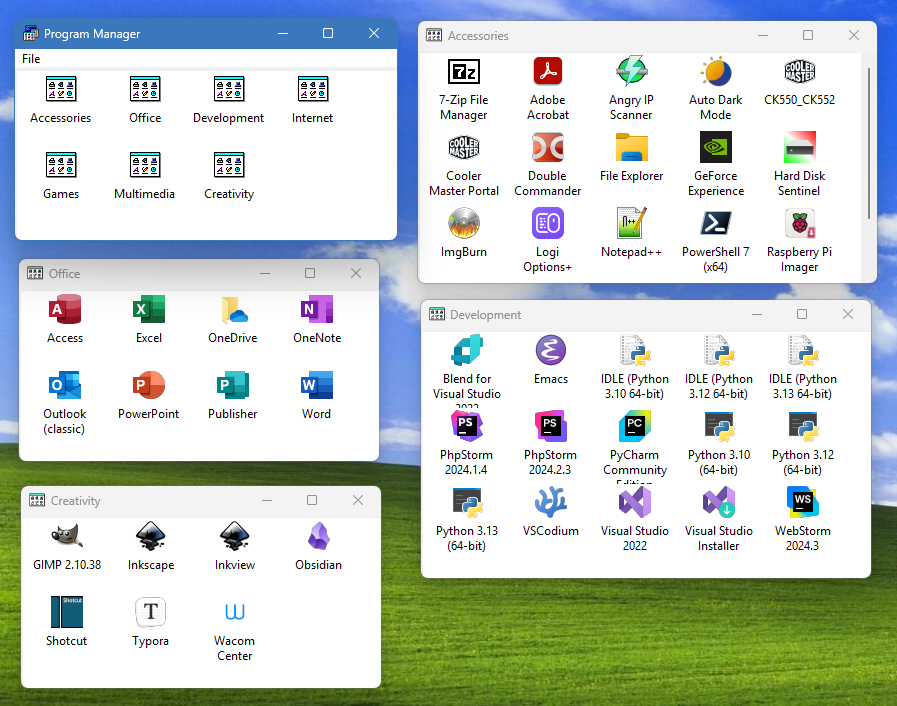
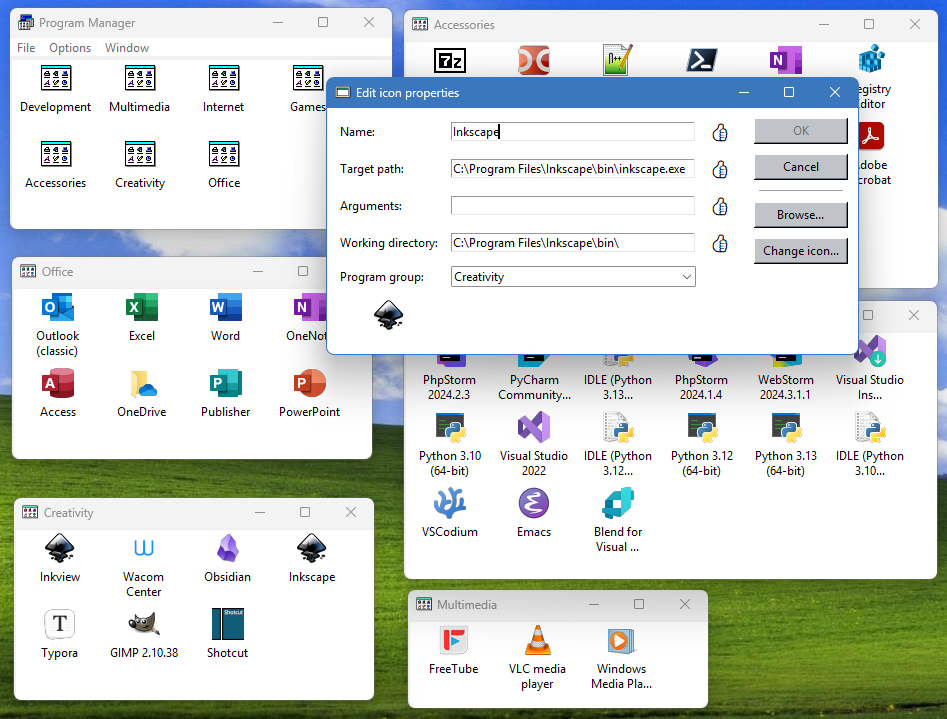
doc: update readme and screenshot

diff --git a/README.md b/README.md
@@ -15,12 +15,12 @@ It is written in Python v3.13 using TkInter to be as lightweight as possible.
 * Groups are prepopulated from the OS' own app launcher to save time on icon creation based on rules.
 * App icons can be present in multiple group at the same time.
 * Custom icon creation.
+* Editing icons.
 * Custom group creation.
 
 ## Features on the roadmap
 
-* Editing icons.
-* Context sensitive menus.
+* Context sensitive menus (in progress).
 * Changing group membership of icons received from the OS.
 * Tile windows and cascade windows feature.
 * Theming options to use your favourite Win3.1 themes or create your own ones.
